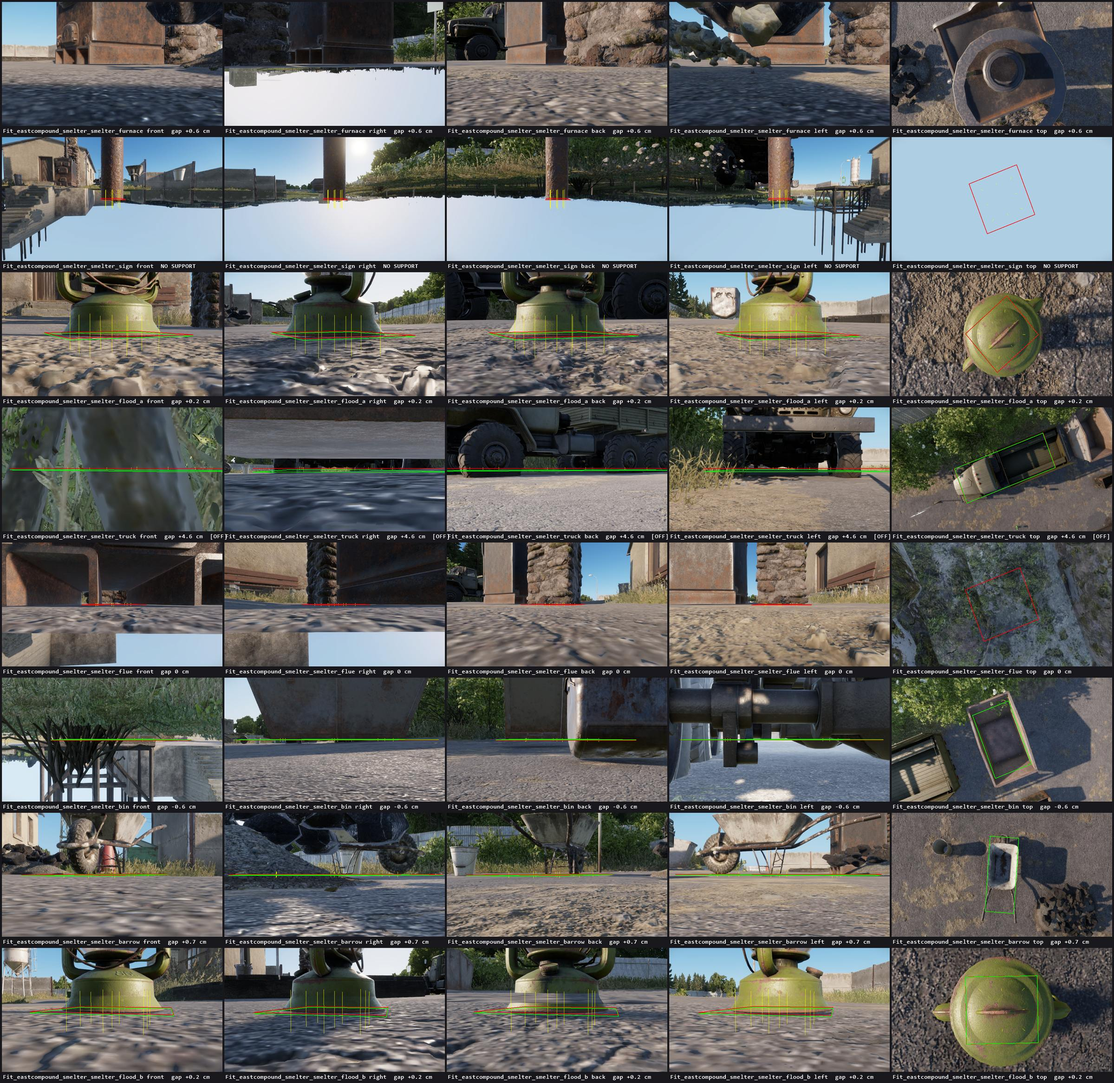
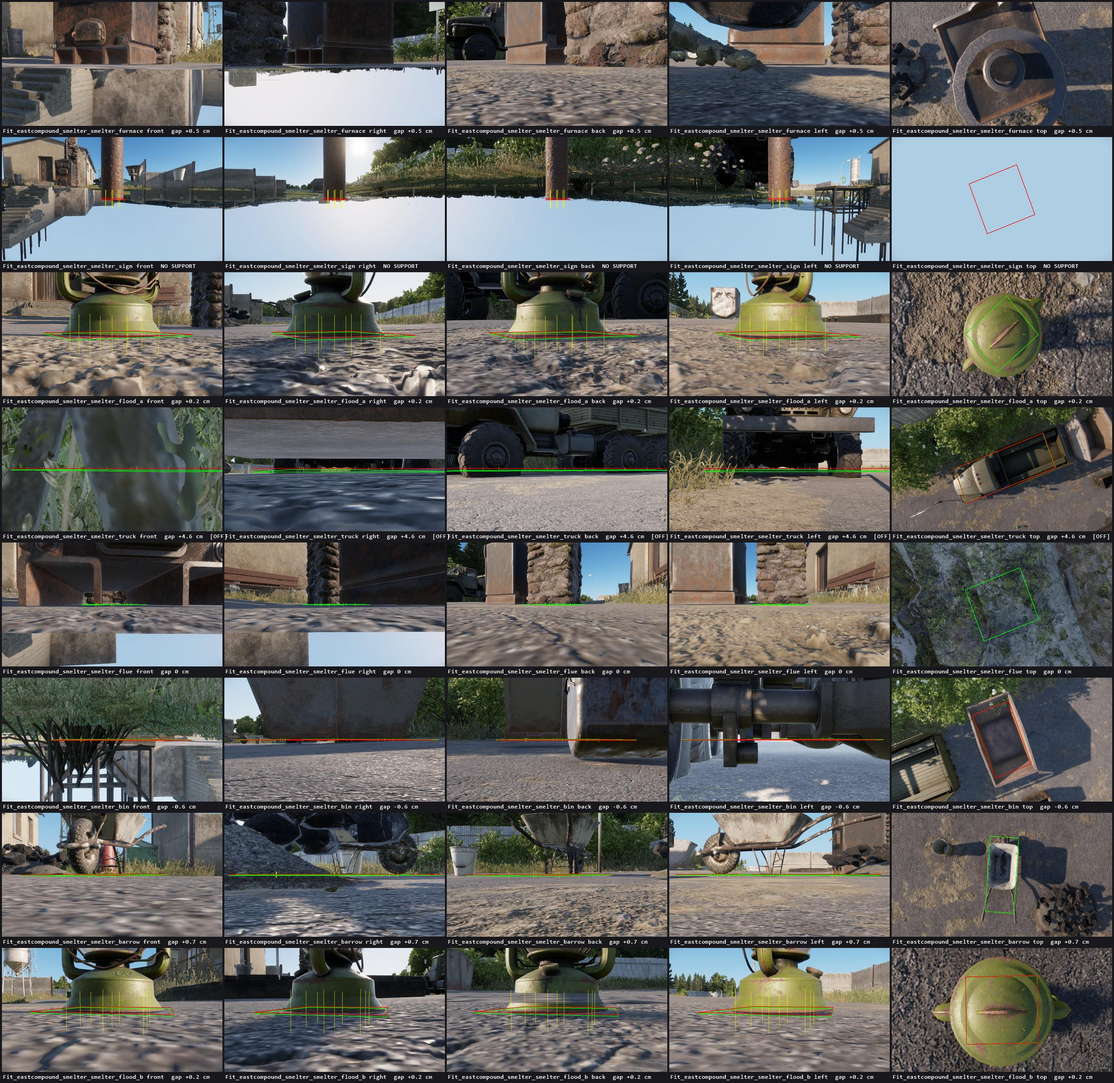
Iron smelter: furnace at 1.6x (inside the audit scale range), fresh pictures (#3244)

diff --git a/docs/features/gathering-processing-resources.md b/docs/features/gathering-processing-resources.md
@@ -247,4 +247,4 @@
 - 🧪 (2026-11-24, town-draft-eastcompound-smelter-look, #3244 polish; merged, in-dev) **The iron smelter reads as a works furnace.** `LF_IronSmelter.et` swaps its visual from the Blender brick block (black hopper, splotchy red texture) to the vanilla cast-iron `BoilerLarge_02` stove with its chimney pipe, in the vanilla material; the machine `smelter-iron`, its action ("Smelt iron"), the use point and the drop are untouched, and the run smoke now rises from the chimney (`m_vSmokeOffset 0 1.95 -0.1`). The coal pile beside it is a new pack prefab, `Prefabs/Props/Industrial/LF_CoalHeap.et` (`tools/town/gen-coal-heap.mjs`, deterministic): a low gravel mound under four layers of the coal-spill mesh the coal items use, mesh only, 2.6 m west of the furnace in place of the 8 m gravel pile 7.5 m away. `iron-smelter` kit row `smelter-coal-heap`; slot refitted with `town fit eastcompound smelter --refit --terrain`. The pack's own `Coal.xob` lump renders as a red and white checker (its material is not found), so it is not used; that is a separate bug.
 - 🧪 (2026-11-24, town-draft-coalmans-brow-mine-bench, #4180 polish; merged, in-dev) **The Coalman's Brow camp bench is a work table, not a kitchen cabinet.** Kit `iron-mine` row `mine-bench` changes from the green vanilla `Workbench_01` (a cabinet with drawers) to the vanilla plank table `TableLong_01` (2.4 x 1.0 x 0.9 m); a vanilla bench vice (`Workbench_Vice_01`) and a red tool box (`ToolBox_01_red`) stand on it, and the kerosene lantern the player lights (`mine-bench-lamp`) keeps its place on top. Rows go through `on mine-bench`, so they follow the table. Layer and kit edited together (the slot is claimed in two sibling worktrees, so `town fit` refuses it; the new rows are the kit offsets moved by the slot's pure translation). `audit placement --world MainWorld --layer Place_coalmans-brow_mine.layer --strict` clean.
 - 🧪 (2026-11-24, #4180, town-draft-eastcompound-smelter-sign) **The smelter's pole plate faces the furnace.** A pole plate prints its title on its `+z` side only; the plate stood at the apron's far edge facing away from the furnace, so a smelter worker saw the blank white back (the title read only from the grass to the west). The `iron-smelter` kit row `smelter-sign` now has `yaw` 180, so "Iron smelter" faces the apron and the furnace. `town fit eastcompound smelter --refit` rewrote the layer (one `angleY` line).
-- 🧪 (2026-11-24, town-draft-eastcompound-smelter-body, #3244 polish) **The iron smelter is a works furnace, not a stove on the yard.** The cast-iron `BoilerLarge_02` of `LF_IronSmelter.et` stood alone, 0.65 m wide, and read as a camping stove. The `iron-smelter` kit now places it at 1.7x (1.1 x 3.3 m, row `scale`) and backs it with a stone and brick stack, the vanilla ruined-house chimney `HouseRuin_01_Chimney` at 0.8x (6 m, row `smelter-flue`, `lift` 1.2 for its sunk footing), so the boiler's flue pipe runs into a stack. The machine `smelter-iron`, its F action ("Smelt iron") and its use point are unchanged and still read from the front (+z). Session proof: `agent-box/flows/island-smelter-eye.txt` (n3, front at eye height: the prompt shows; n6, whole group). Refit with `town fit eastcompound smelter --refit --terrain`.
+- 🧪 (2026-11-24, town-draft-eastcompound-smelter-body, #3244 polish) **The iron smelter is a works furnace, not a stove on the yard.** The cast-iron `BoilerLarge_02` of `LF_IronSmelter.et` stood alone, 0.65 m wide, and read as a camping stove. The `iron-smelter` kit now places it at 1.6x (1.0 x 3.1 m, row `scale`) and backs it with a stone and brick stack, the vanilla ruined-house chimney `HouseRuin_01_Chimney` at 0.8x (6 m, row `smelter-flue`, `lift` 1.2 for its sunk footing), so the boiler's flue pipe runs into a stack. The machine `smelter-iron`, its F action ("Smelt iron") and its use point are unchanged and still read from the front (+z). Session proof: `agent-box/flows/island-smelter-eye.txt` (n3, front at eye height: the prompt shows; n6, whole group). Refit with `town fit eastcompound smelter --refit --terrain`.
